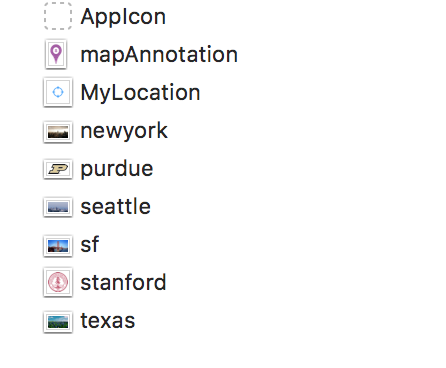
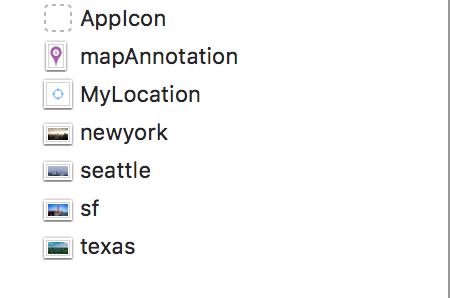
update images & give credits

Changed region(s): [[0.0874, 0.0, 0.5538, 0.9362], [0.991, 0.0, 1.0, 1.0]]

diff --git a/P00-Getting-Started/content.md b/P00-Getting-Started/content.md
@@ -36,11 +36,13 @@ So, what's inside the starer project ?
 
 ## Image Asset
 
+Icons are from icons8.com. Images are from unsplash.com
+
 ![Image Asset](assets/images.png "Image Asset")
 
 ## Location Data
 
 ```
-let names = ["newyork":(40.7128,-74.0059),"purdue":(40.4237,-86.9212),"seattle":(47.6062,-122.3321),"sf":(37.7786,-122.3893),"stanford":(37.4241,-122.1661),"texas":(31.9686,-99.9018)]
+let names = ["newyork":(40.7128,-74.0059),"seattle":(47.6062,-122.3321),"sf":(37.7786,-122.3893),"texas":(31.9686,-99.9018)]
 
 ```
